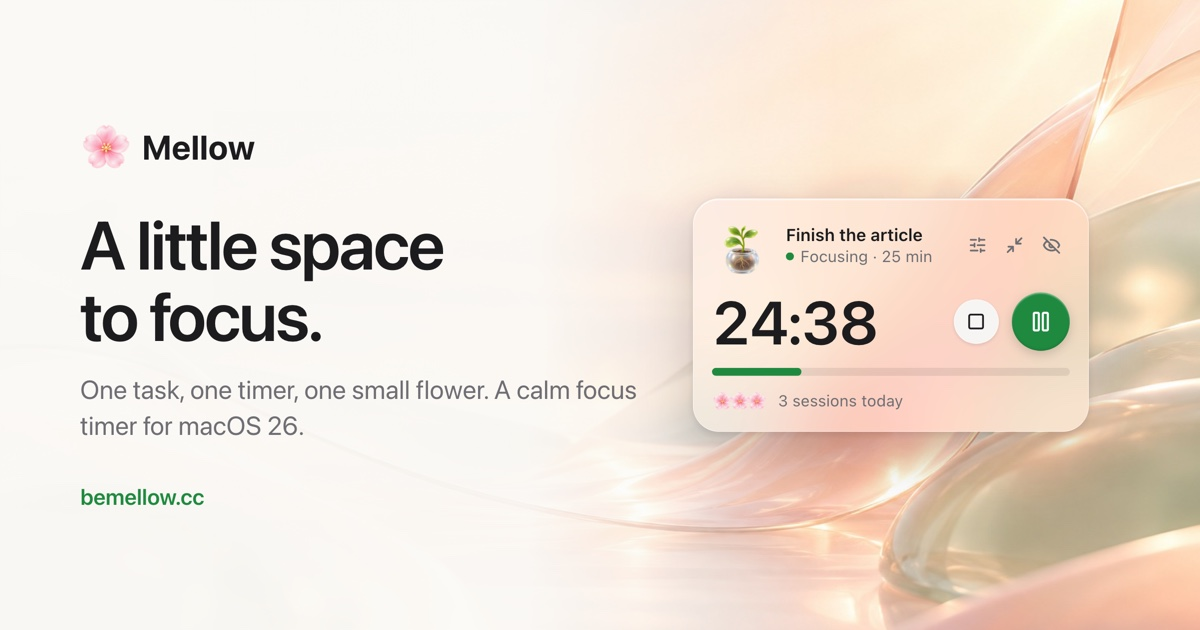
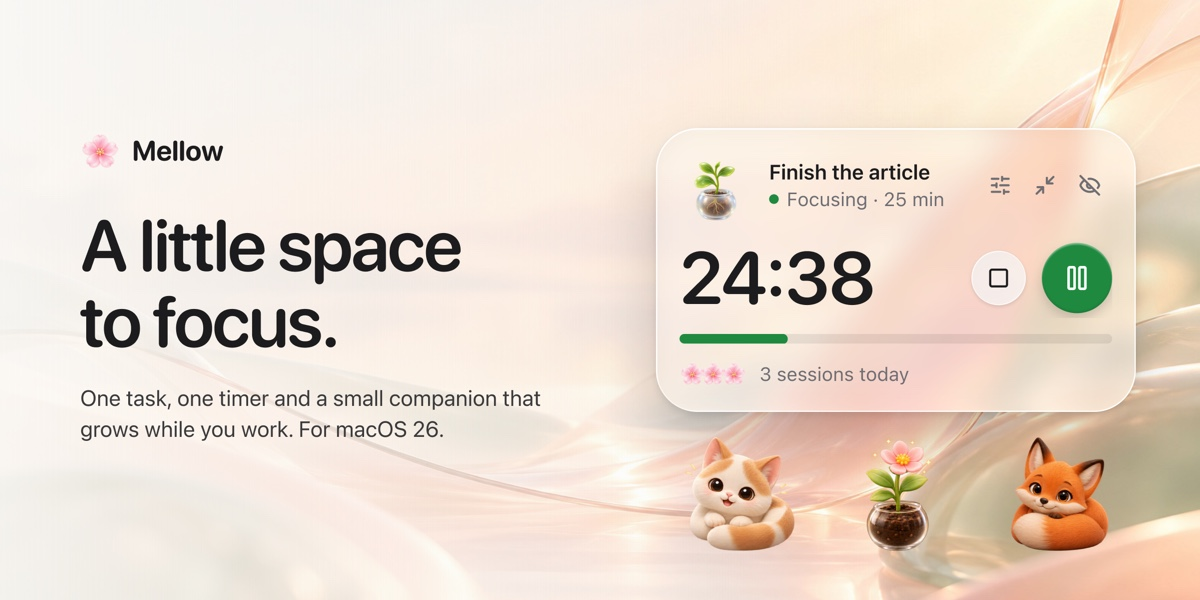
Use the Figma meta image as the social preview
og-image.jpg is now the "Meta image · 1200×600" frame from Figma (exported
at 2x, saved at 1200×600), replacing the generated card. og:image:height
and the alt text follow the new image; the HTML card source is removed
and render.sh only builds the icons now.

diff --git a/website/index.html b/website/index.html
@@ -16,14 +16,14 @@
   <meta property="og:description" content="Mellow sits at the edge of your screen with one task and a timer. Stay with it, and something small grows. A calm focus timer for macOS 26.">
   <meta property="og:image" content="https://bemellow.cc/og-image.jpg">
   <meta property="og:image:width" content="1200">
-  <meta property="og:image:height" content="630">
-  <meta property="og:image:alt" content="Mellow's floating focus panel with 24:38 left on “Finish the article”.">
+  <meta property="og:image:height" content="600">
+  <meta property="og:image:alt" content="Mellow: A little space to focus. The floating focus panel with 24:38 left, and the cat, plant and fox companions.">
   <meta property="og:locale" content="en_US">
   <meta name="twitter:card" content="summary_large_image">
   <meta name="twitter:title" content="Mellow — A little space to focus">
   <meta name="twitter:description" content="Mellow sits at the edge of your screen with one task and a timer. Stay with it, and something small grows. A calm focus timer for macOS 26.">
   <meta name="twitter:image" content="https://bemellow.cc/og-image.jpg">
-  <meta name="twitter:image:alt" content="Mellow's floating focus panel with 24:38 left on “Finish the article”.">
+  <meta name="twitter:image:alt" content="Mellow: A little space to focus. The floating focus panel with 24:38 left, and the cat, plant and fox companions.">
 
   <link rel="icon" type="image/png" sizes="32x32" href="/favicon-32.png">
   <link rel="icon" type="image/png" sizes="512x512" href="/assets/logo.png">
